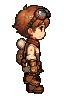
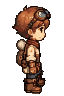
fix: male E walk no longer reads as walking backwards
Trailing boot now pushes off from the toe, near/far legs alternate, planted
foot slides backward; 6/6 TECH-PASS, halo 0.

Changed region(s): [[0.1875, 0.0312, 0.8125, 1.0]]

diff --git a/docs/tasks/ART-003-G04.md b/docs/tasks/ART-003-G04.md
@@ -32,3 +32,6 @@ The owner supplied a commercial farm-sim base sprite sheet as a MOTION reference
 ## Walk v2 (2026-11-26, Codex gpt-6.2-sol, after owner motion feedback)
 - Male S and E, 6 frames each (`s_f0..5`, `e_f0..5`), f0 byte-identical to the current approved sprites; all 12 TECH-PASS, halo 0. Timing 130/100/110/130/100/110 ms. GIFs: `walk_m_s_v2_4x.gif`, `walk_m_e_v2_4x.gif` (dark background).
 - E: clear V stride on f1/f3, heel down / toe push, arm swing, pack follows the body. S: clearer weight transfer and arm swing than the pilot, but it is still a little stiff because of the bulky boots. Claude review: the trailing boot in E f5 looks slightly cluttered; polish it during the full pass.
+
+## Walk E fix (2026-11-26) — "looks like walking backwards"
+Cause: on the stride frames the trailing boot was drawn as a heel strike (toe raised), and f1 and f3 were near-identical, so the near and far legs never swapped. Codex redid e_f1..e_f5: toes always point right; the trailing foot pushes off from the toe with the heel raised; the near leg leads on f1 and the far leg on f4; the planted foot slides left over the cycle; arms swing opposite to the legs. 6/6 TECH-PASS, halo 0, f0 byte-identical. Rule for every side/diagonal walk: boots point in the walking direction, and the back foot is always heel-up/toe-down.
